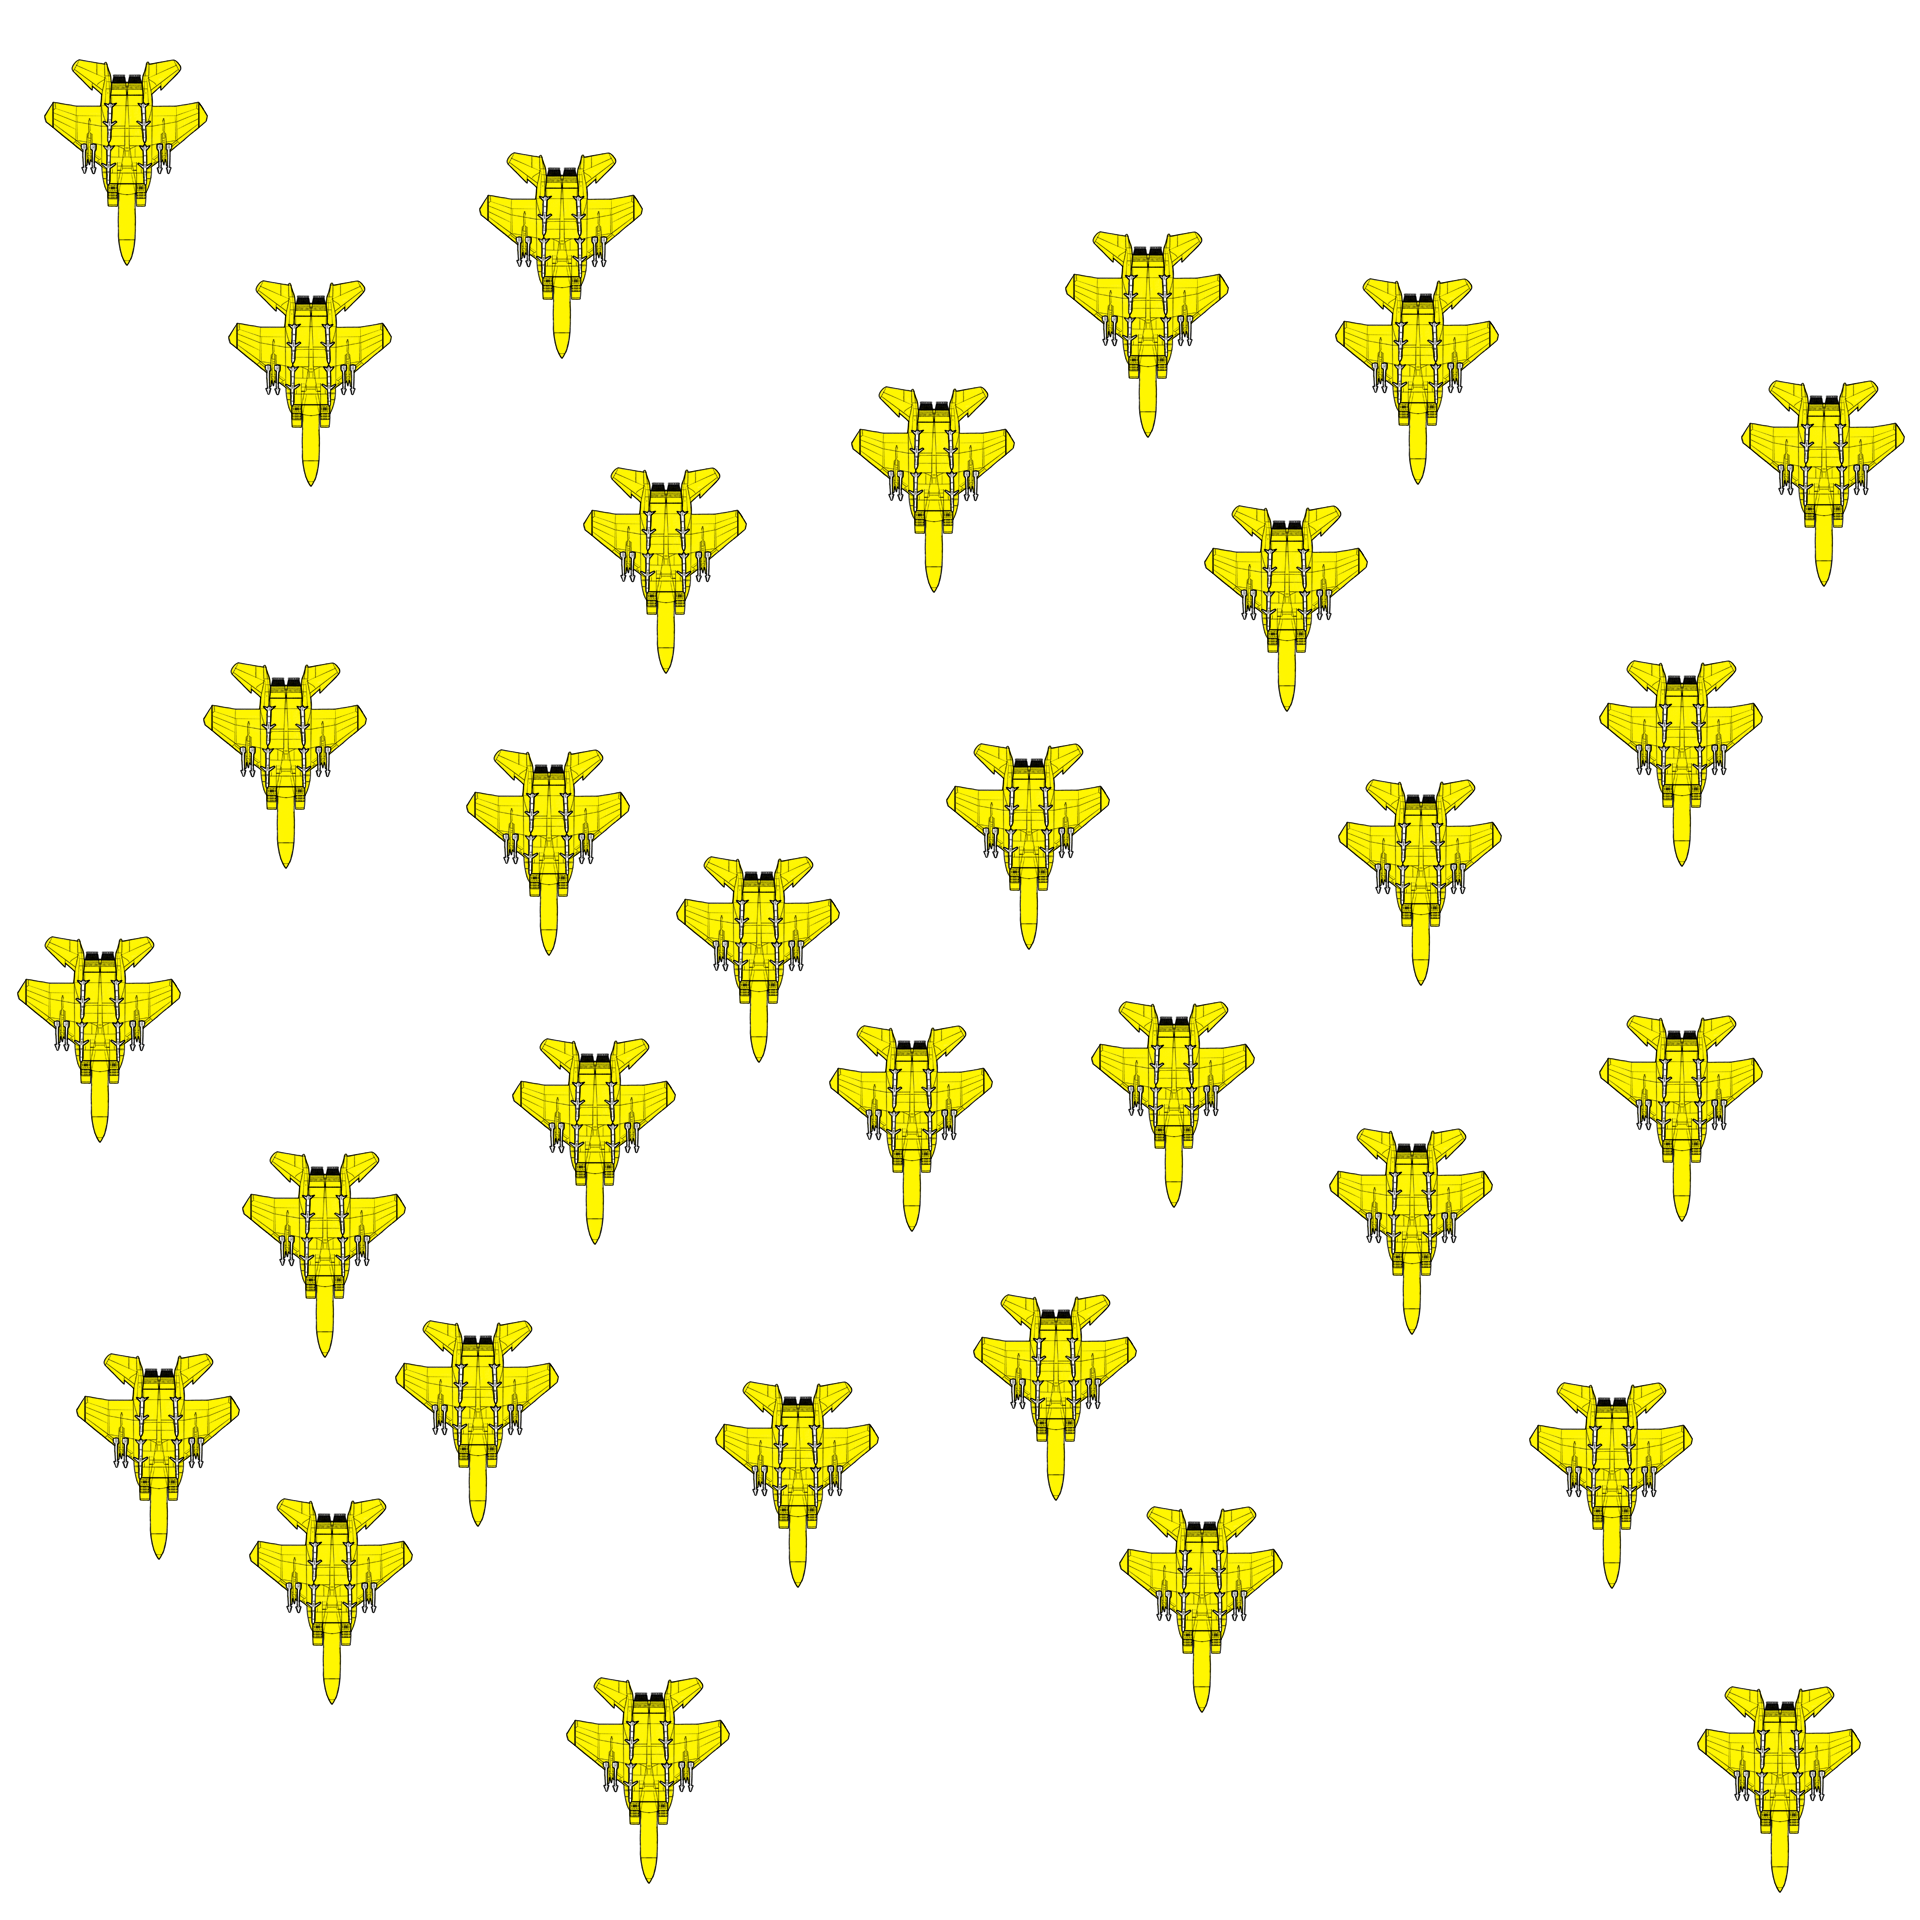
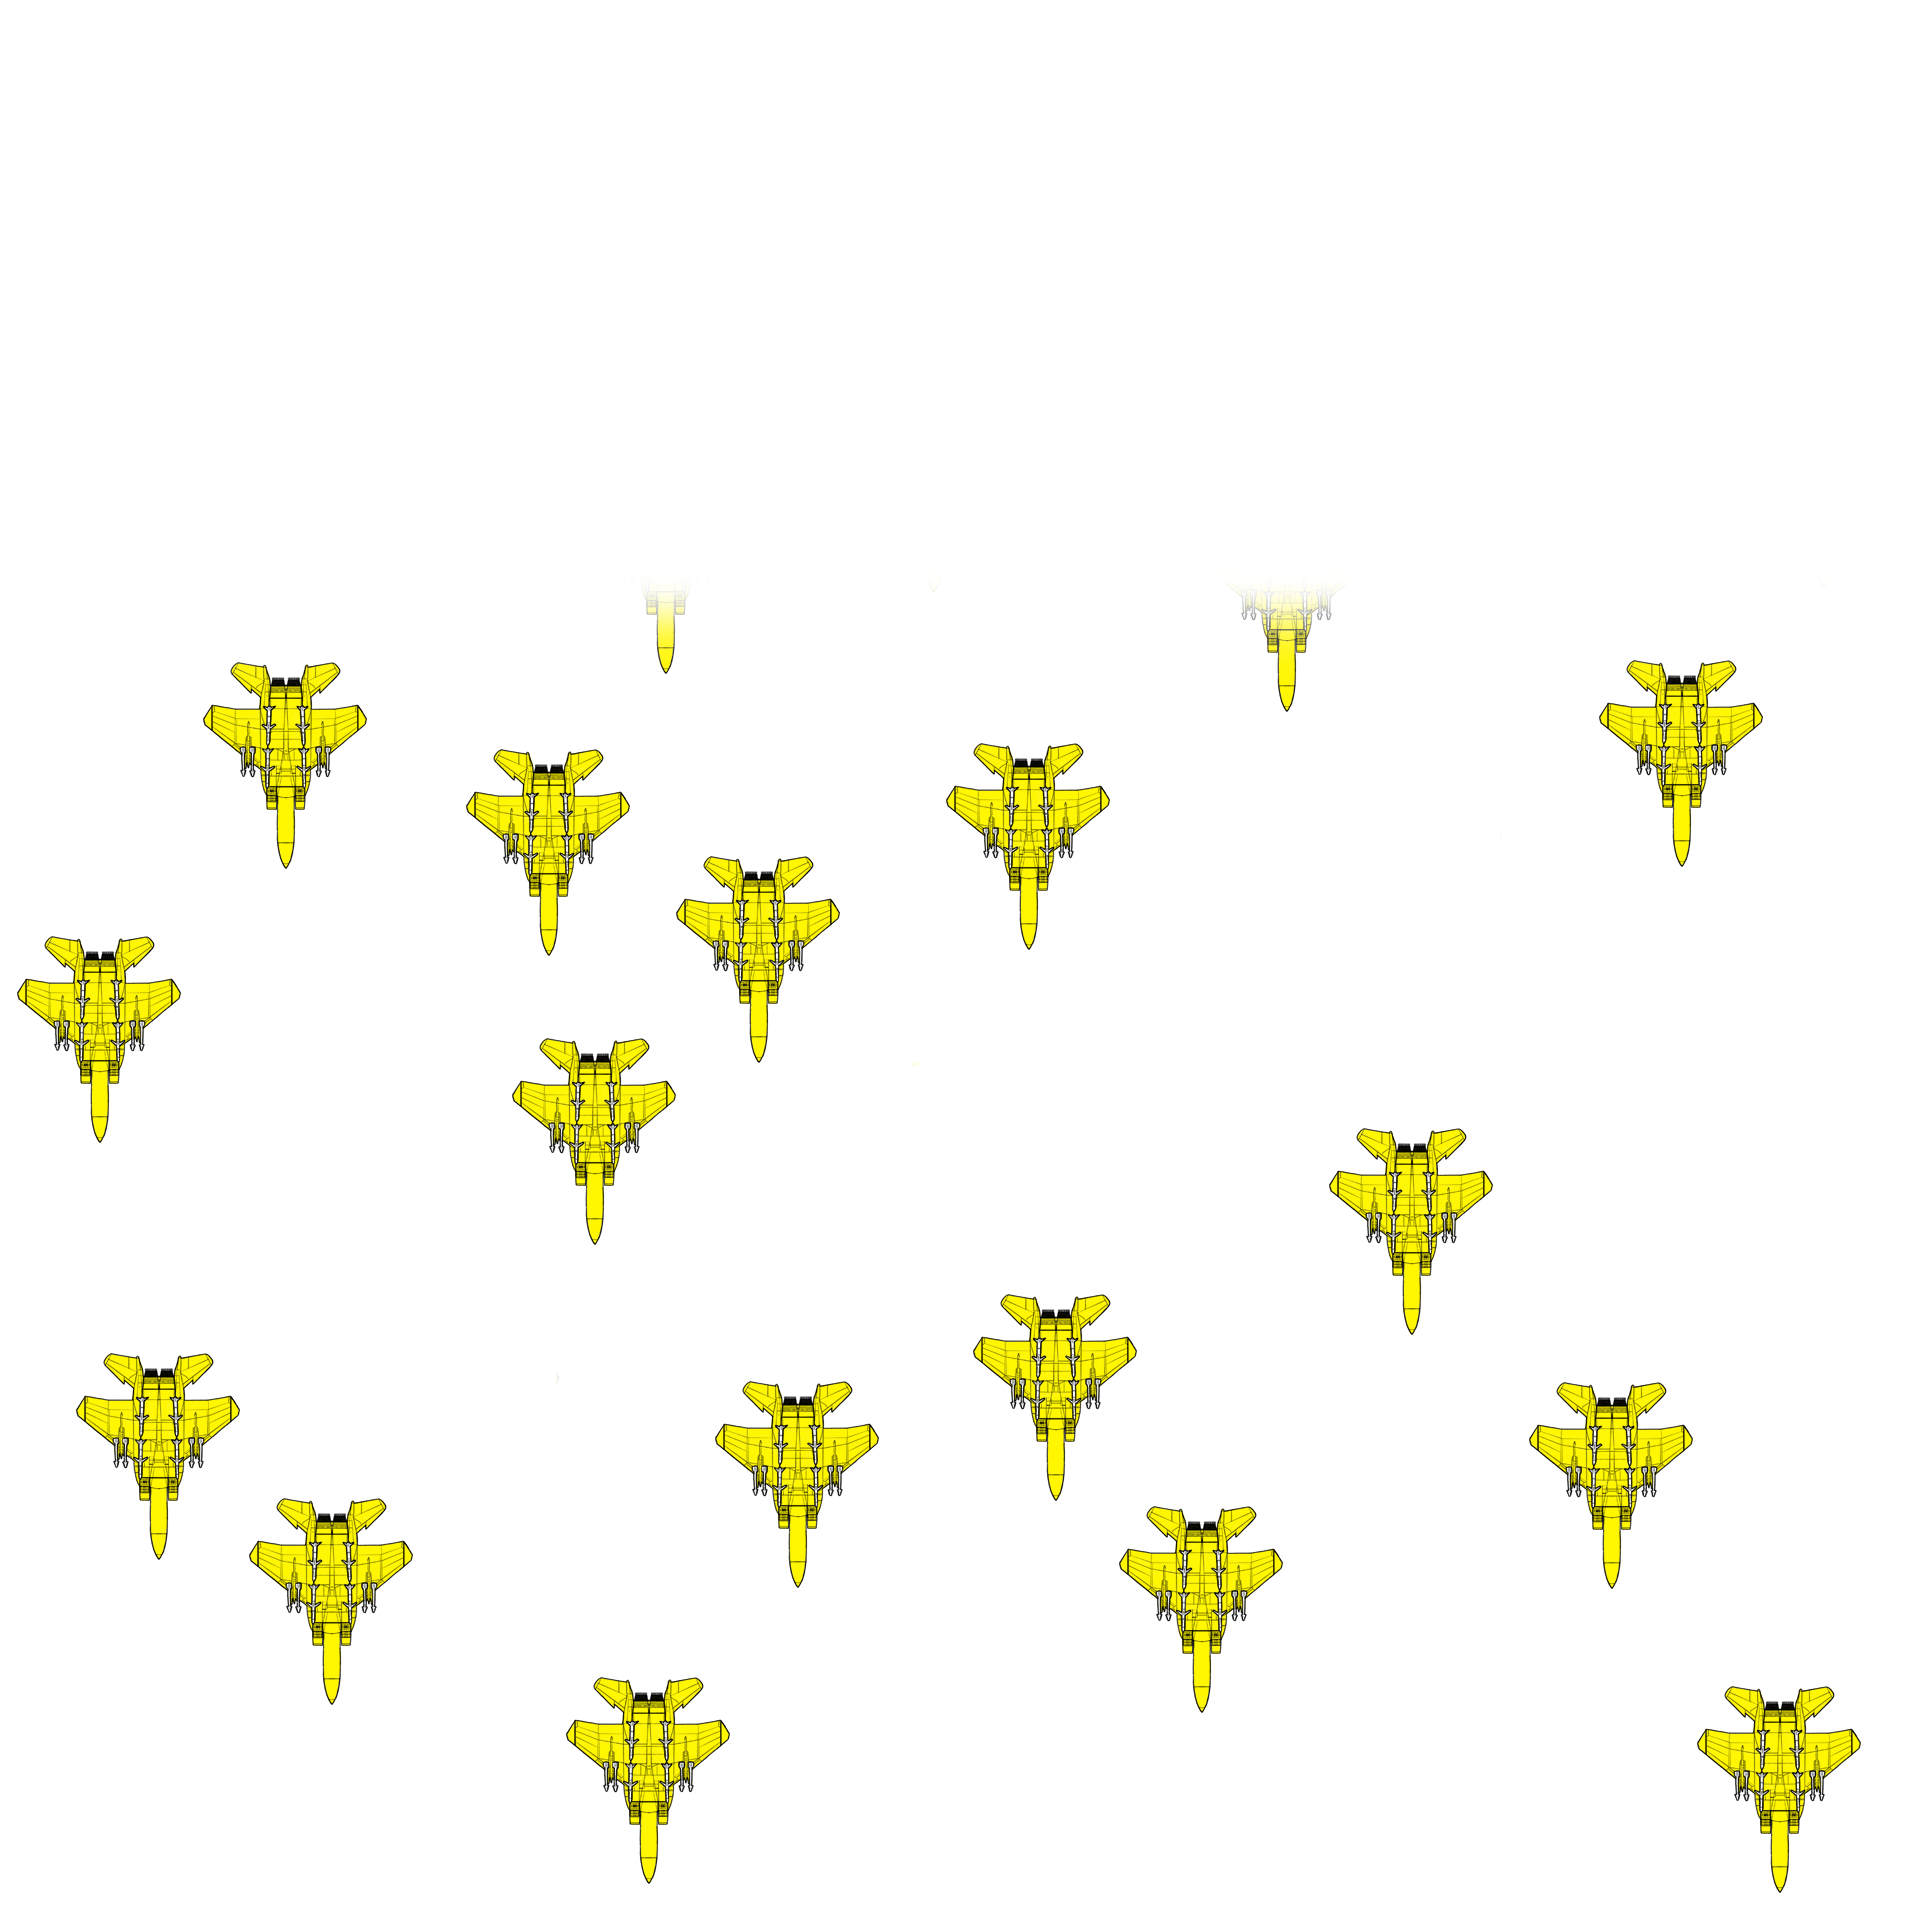
PANEL TWEAKS

diff --git a/styles.css b/styles.css
@@ -169,12 +169,12 @@ header {
 }
 
 .second--01 {
-  transform: translateZ(-.2px) scale(1.9);
-  padding-top: 3500px;
+  transform: translateZ(2px) scale(1.4);
+  padding-top: 4700px;
   padding-left: 250px;
 }
 .second--02 {
-  transform: translateZ(-.7px) scale(1.6);
+  transform: translateZ(1px) scale(1.6);
   padding-top: 4200px;
   padding-left: 250px;
 }
@@ -185,8 +185,13 @@ header {
 }
 .second--04 {
   transform: translateZ(-2px) scale(.9);
-  padding-top: 6750px;
+  padding-top: 6800px;
   padding-left: 250px;
+}
+.second--05 {
+  transform: translateZ(-1px) scale(1);
+  padding-top: 6550px;
+  padding-left: 400px;
 }
 
 .bg1 {

diff --git a/index.html b/index.html
@@ -43,6 +43,7 @@
 <img src="img/worm2.png" class="second--02">
 <img src="img/wide-ny.png" class="second--03">
 <img src="img/migs.png" class="second--04">
+<img src="img/RARGH.png" class="second--05">
     </header>
     <section>
       <h2 id="introduction">Introduction</br><div class="break"></div><span class="smaller">Nowhere to run,</br>Nowhere to hide.</span></h2>
